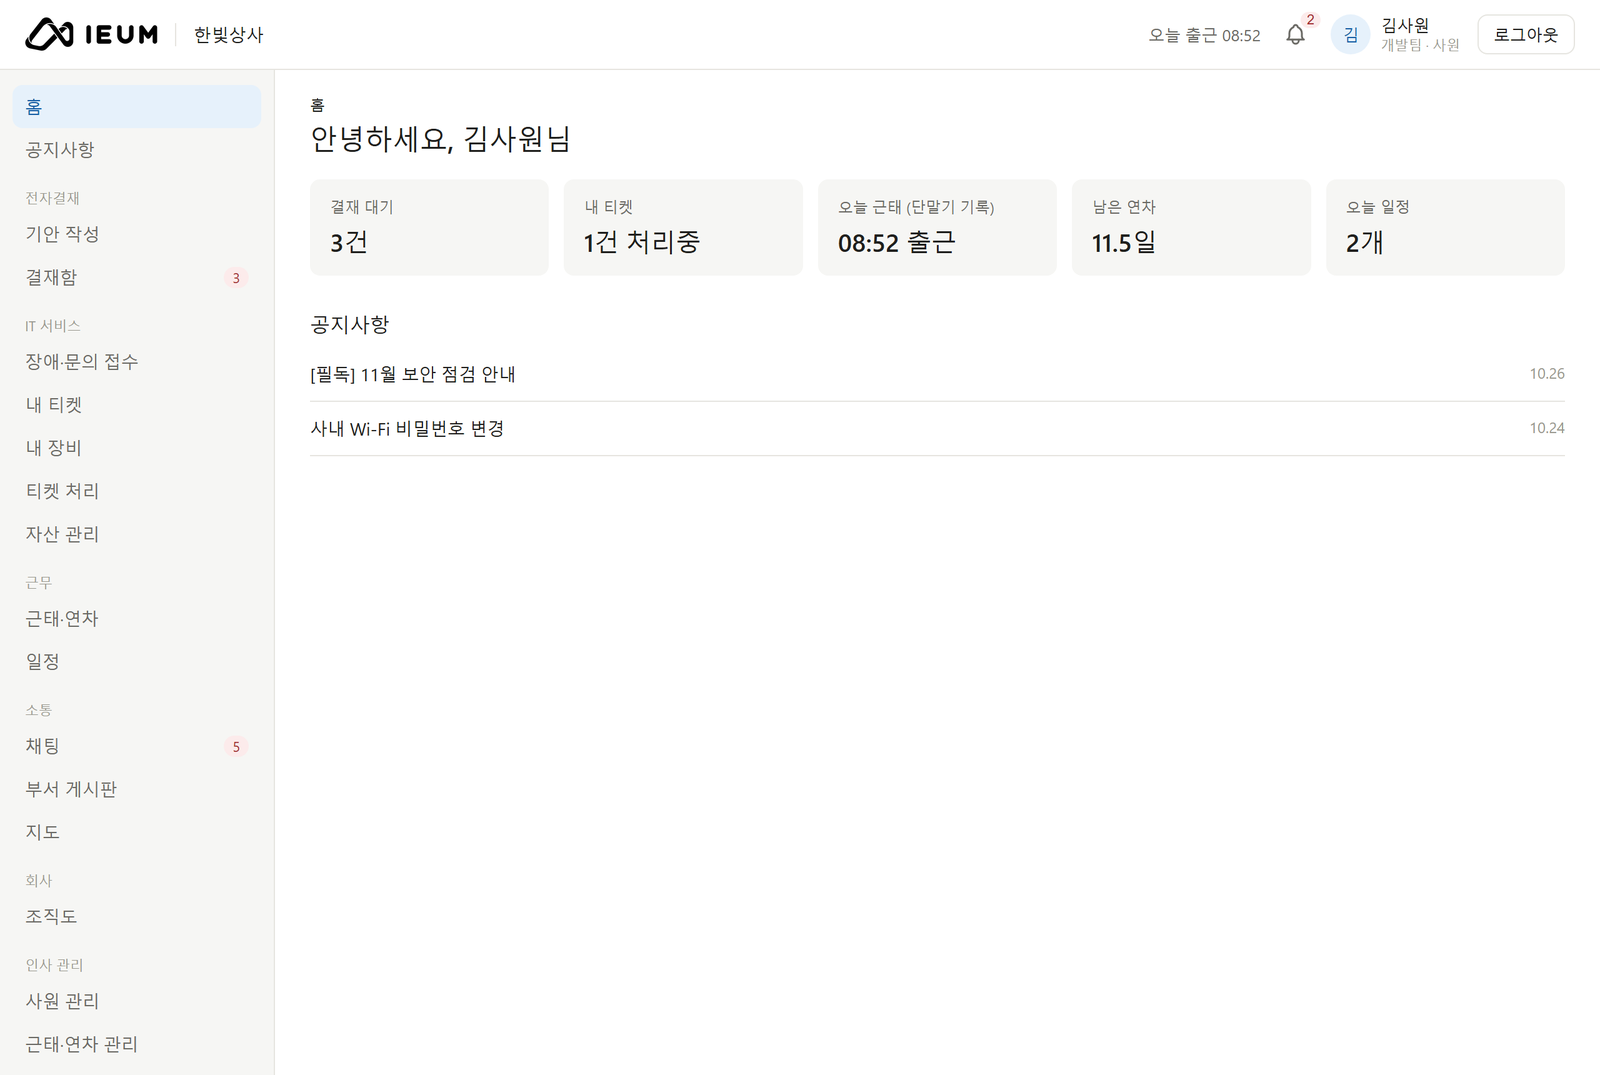
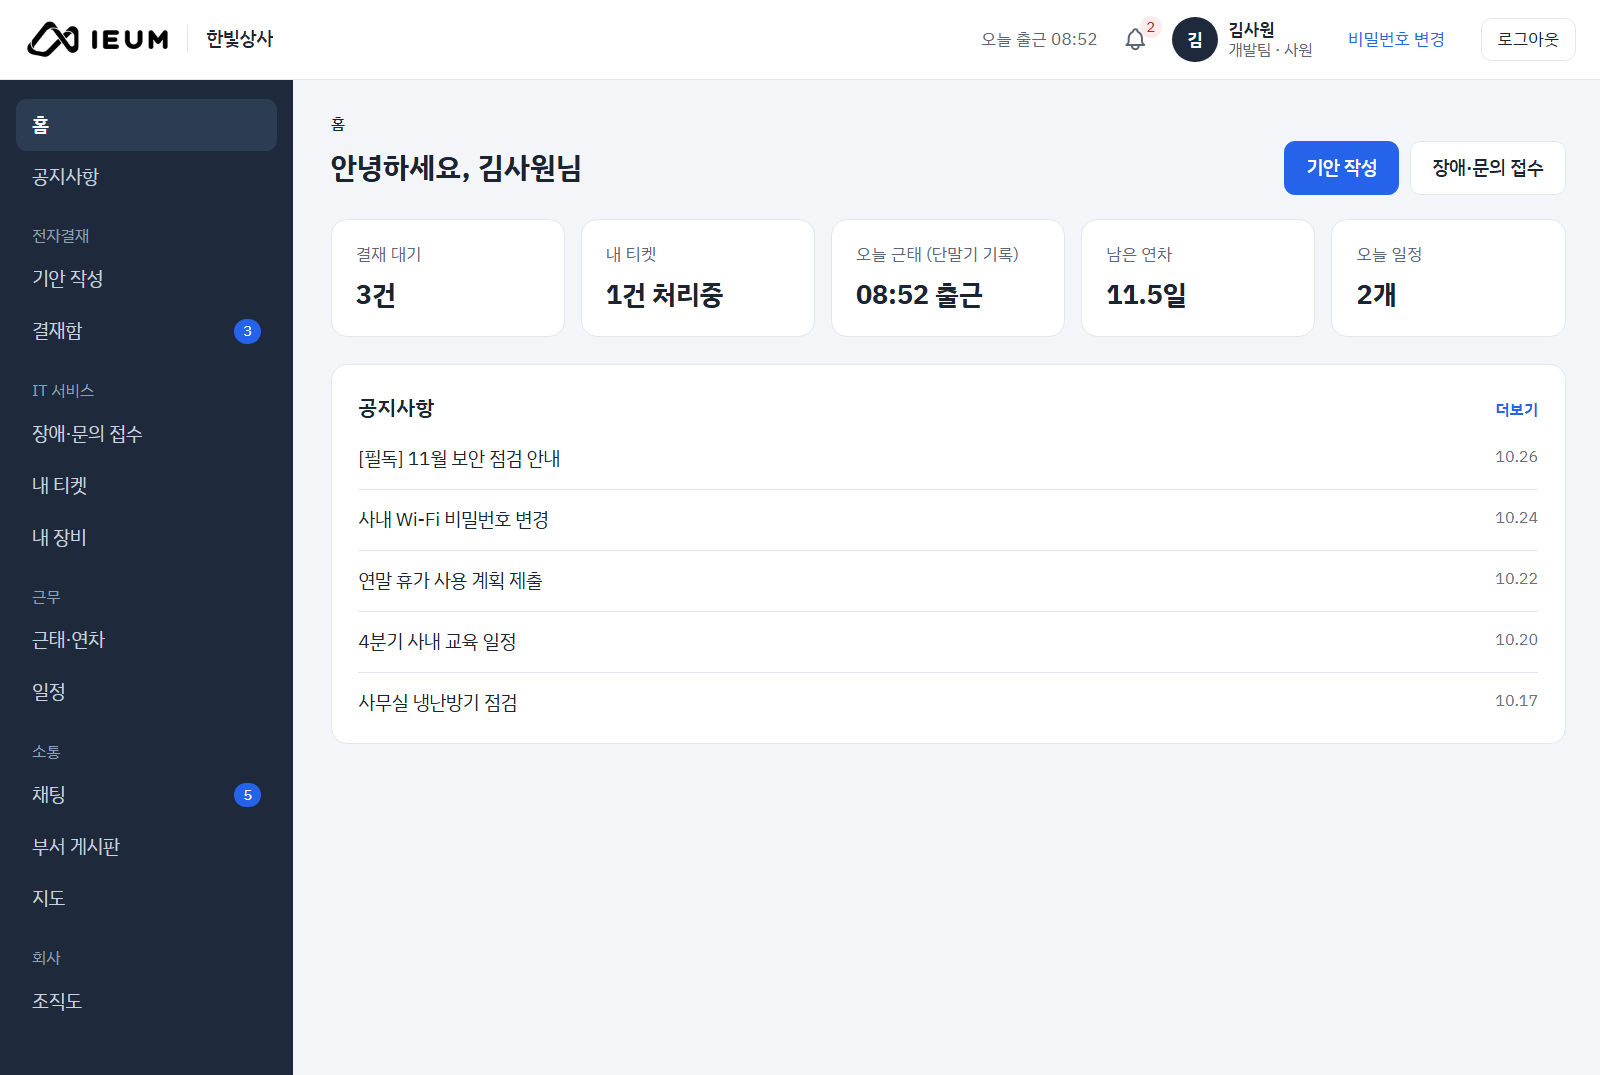
[front] 소개 사이트: 그룹웨어 그림을 2안 디자인 홈 화면으로 바꾸고 마우스 기울임 최대 각도를 9도에서 6도로 줄임

diff --git a/src/main/webapp/resources/js/site.js b/src/main/webapp/resources/js/site.js
@@ -60,7 +60,7 @@ if (heroDevice && heroCard) {
   const hero = heroDevice.closest('.hero');
   const tiltable = matchMedia('(hover: hover) and (pointer: fine) and (min-width: 901px) and (prefers-reduced-motion: no-preference)');
   const REST = { x: -5, y: 2 }; // 도 단위: 멈춰 있을 때의 기울기, CSS와 같다
-  const MAX = 9;                // 마우스 쪽으로 가장 많이 기우는 각도
+  const MAX = 6;                // 마우스 쪽으로 가장 많이 기우는 각도
   let target = { ...REST };
   let cur = { ...REST };
   let frame = 0;
